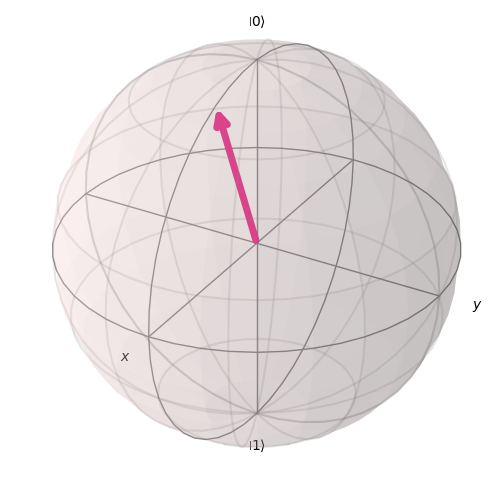
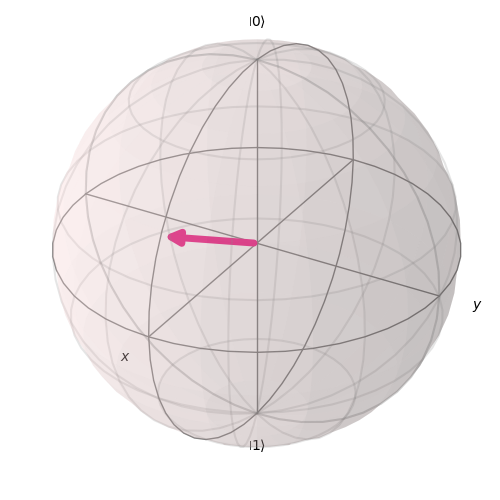
Add files via upload

Changed region(s): [[0.33, 0.21, 0.54, 0.51]]

diff --git a/qbit-teleporter/README.md b/qbit-teleporter/README.md
@@ -1,0 +1,43 @@
+# Quantum Teleportation
+
+This folder contains a Python script that demonstrates the concept of quantum teleportation using the `Qiskit` library, an open-source quantum computing software development framework. Quantum teleportation is a process in quantum information science where the quantum state of a particle can be transmitted from one location to another, with the help of previously shared entanglement and classical communication.
+
+## Quantum Teleportation Process
+
+Quantum teleportation is a fundamental concept in quantum information theory that allows the transfer of quantum information from one qubit to another, leveraging the principles of quantum entanglement and classical communication. This script showcases a simplified version of the quantum teleportation protocol using the Qiskit library. The quantum state of qubit 0 is teleported to `qubit 2` through the entanglement of `qubit 1`.
+
+## Code Overview
+
+1. Library Imports:
+The script begins by importing necessary libraries such as random, numpy, and components from the Qiskit library including `QuantumCircuit`, `QuantumRegister`, `ClassicalRegister`, `Aer`, `marginal_counts`, and visualization tools from `plot_histogram` and `plot_bloch_vector`.
+
+2. Function Definitions:
+    - `create_registers()` function is defined to create the required quantum and classical registers and initialize a QuantumCircuit for the teleportation process.
+
+    - `generate_amplitudes()` function generates random values for the quantum bit (qubit) 0's alpha and beta, representing the amplitudes in the quantum state.
+
+    - `add_gates()` function adds various quantum gates (like initialize, Hadamard, controlled-not, and measurements) to the circuit for the teleportation protocol based on the provided amplitudes.
+
+    - `amplitude_to_bloch()` function is defined to convert the calculated amplitudes to Bloch vector coordinates.
+
+3. Quantum Circuit Execution:
+The script generates the necessary amplitudes, creates the quantum circuit, adds gates, and displays the circuit diagram.
+
+4. Simulation and Result Analysis:
+The circuit is executed on a Qiskit Aer simulator backend with a specified number of shots (100000 shots in this case). The script then retrieves the results and performs analysis to obtain the quantum state of qubit 2 after the teleportation process. The Bloch vector coordinates are also calculated and displayed.
+
+5. Visualization and Output Saving:
+The script generates visualization components including a Bloch vector plot and a histogram plot representing the measurement outcomes. These visualizations are saved as image files, along with the circuit diagram.
+
+## Example
+
+![Quantum Circuit](circuit_diagram.png "Quantum Circuit")
+
+    Qbit 0: |ψ⟩ (0.8592, 0.5117)
+    Qbit 2: |ψ⟩ (0.8592, 0.5116)
+    Bloch Vector: (0.8791, 0.0000, 0.4766)
+
+
+![Bloch sphere](bloch_plot.png "Bloch sphere")
+
+![Histogram Plot](histogram.png "Histogram Plot")
